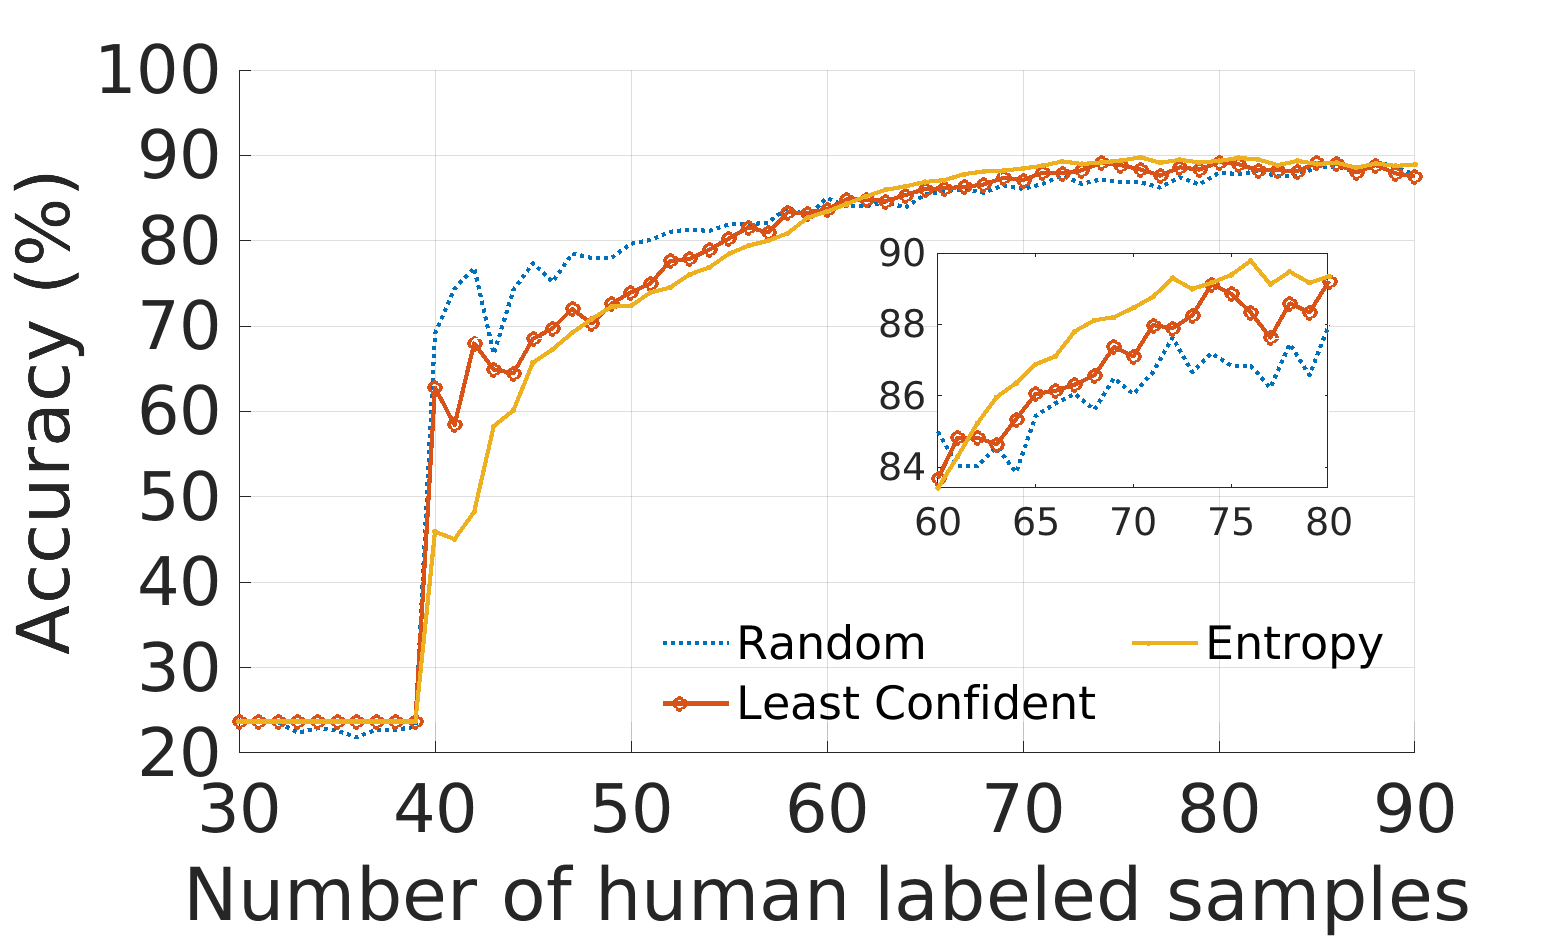
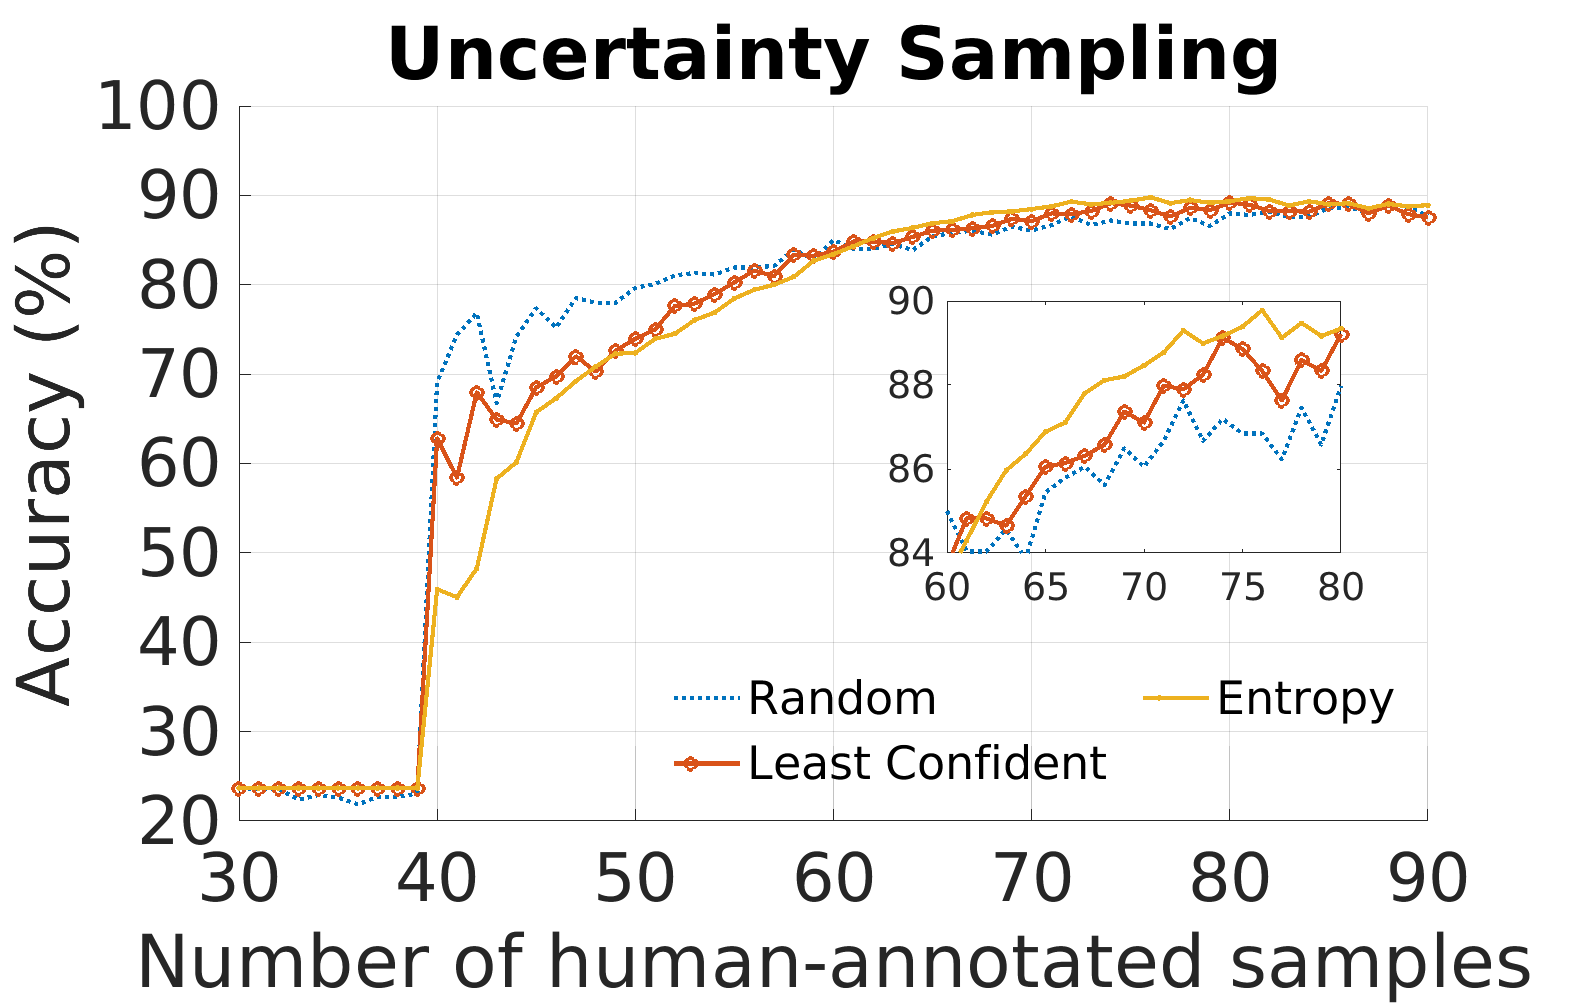
Active Learning Done

diff --git a/Python/self_train.py b/Python/self_train.py
@@ -1,0 +1,189 @@
+import numpy as np
+import pandas as pd
+from sklearn import preprocessing
+from sklearn.model_selection import KFold
+from sklearn.metrics import confusion_matrix
+import optuna
+from numpy import savetxt
+import pickle
+import os
+
+import argparse
+from argparse import RawTextHelpFormatter
+
+import lightgbm as lgb
+
+from copy import deepcopy
+
+from MyObjective import MyObjective
+from Query_Strategy import query_index
+
+
+# ------ Configurations ------
+
+# self_train
+
+
+# take in as arguments
+# query_strategy = "random"
+
+# do not change
+# n_sample_arr = list(range(3, 91))
+
+# number of runs for each reduced number of samples
+n_run = 10
+
+# optuna number of trails
+# n_trial = 5
+
+# data directory
+dire = "../data/PAW FTIR data/"
+
+# number of folds for cross-validation. !Do not change
+n_fold = 5
+
+# do not change
+start_n_sample = 10
+end_n_sample = 90
+
+path_to_param = "Hyper_Parameter/params.pkl"
+
+# --- End of Configurations ---
+
+# np.random.seed(123)
+optuna.logging.set_verbosity(optuna.logging.FATAL)
+
+help_message = "Self Training. " \
+    "Supported Methods:\n" \
+    "Self Training: [random|confident|entropy]"
+parser = argparse.ArgumentParser(description="Active Learning Strategies", formatter_class=RawTextHelpFormatter)
+parser.add_argument("sampling_method", type=str, help=help_message)
+args = parser.parse_args()
+
+query_strategy = args.sampling_method
+
+
+print("query_strategy={}\nn_run={}".format(query_strategy, n_run))
+
+filesnames = os.listdir(dire)
+filesnames.sort(key=lambda x: int(x.split('-')[0]))
+
+# Below is to read all files from the directory into Pandas DataFrame
+df = pd.DataFrame()
+for i_file in range(len(filesnames)):
+    with open(os.path.join(dire, filesnames[i_file])) as f:
+        for i_row, row in enumerate(f):
+            if i_row < 4:
+                continue
+            else:
+                row = row.replace('\t', ' ')
+                row = row.replace('\n', ' ')
+                temp = row.split()
+                col_name = float(temp[0])
+                col_value = float(temp[1])
+                df.loc[i_file, col_name] = col_value
+        df.loc[i_file, 'group'] = filesnames[i_file][0:3]
+# print(df.shape)
+
+# "group" column refers to Y, like naocl concentration; originally it is 0ppm; I convert it to numeric number 0
+df["group"] = df["group"].apply(lambda x: x.split('-')[0])
+df["group"] = df["group"].astype("int64")  # change to number data type
+# print(df.head())
+
+train_set = df.drop(["group"], axis=1)
+target = df["group"]
+
+stand = preprocessing.StandardScaler()
+data = stand.fit_transform(train_set)
+
+le = preprocessing.LabelEncoder()
+target_cf = le.fit_transform(target)
+
+num_class = len(set(target_cf))
+
+# Load Hyper-parameters
+with open(path_to_param, "rb") as f:
+    hyper_params = pickle.load(f)
+
+
+def run_cv(train_set, target):
+
+    folds = KFold(n_splits=n_fold, shuffle=True)
+    preds = np.zeros([end_n_sample, len(train_set), num_class])
+    pred_accuracy = np.zeros(end_n_sample)
+
+    for fold_, (train_idx, val_idx) in enumerate(folds.split(train_set.values, target)):
+
+        unqueried_index_set = set(train_idx)
+        queried_index_set = set()
+
+        # randomly select instances for initialization
+        for _ in range(start_n_sample):
+            sample_index = np.random.choice(tuple(unqueried_index_set))
+            unqueried_index_set.remove(sample_index)
+            queried_index_set.add(sample_index)
+
+        while len(queried_index_set) < end_n_sample:
+
+            print("\t #fold: {}/{}, #sample: {}/{}".format(fold_+1, n_fold, len(queried_index_set), end_n_sample))
+
+            sample_index = np.random.choice(tuple(unqueried_index_set))
+            unqueried_index_set.remove(sample_index)
+            queried_index_set.add(sample_index)
+
+            # incrementally select data instances
+            queried_index_set_copy = deepcopy(queried_index_set)
+            unqueried_index_set_copy = deepcopy(unqueried_index_set)
+            target_copy = deepcopy(target)
+
+            while len(unqueried_index_set_copy) > 0 and len(queried_index_set_copy) <= end_n_sample:
+
+                train_data = lgb.Dataset(train_set.iloc[list(queried_index_set_copy)], label=target_copy[list(queried_index_set_copy)])
+                valid_data = lgb.Dataset(train_set.iloc[val_idx], label=target_copy[val_idx])
+
+                model = lgb.train(hyper_params[len(queried_index_set_copy)], train_data, valid_sets=[valid_data], verbose_eval=False)
+
+                sample_index = query_index(model=model, train_set=train_set,
+                                           queried_index_set=queried_index_set_copy,
+                                           unqueried_index_set=unqueried_index_set_copy,
+                                           query_strategy="selfTrain"+query_strategy, target=target_copy,
+                                           val_idx=val_idx, hyper_params=hyper_params)
+
+                target_copy[sample_index] = np.argmax(np.squeeze(model.predict(train_set.iloc[sample_index])))
+                unqueried_index_set_copy.remove(sample_index)
+                queried_index_set_copy.add(sample_index)
+
+            # model evaluation
+            train_data = lgb.Dataset(train_set.iloc[list(queried_index_set_copy)],
+                                     label=target_copy[list(queried_index_set_copy)])
+            valid_data = lgb.Dataset(train_set.iloc[val_idx], label=target_copy[val_idx])
+
+            model = lgb.train(hyper_params[end_n_sample], train_data, valid_sets=[valid_data], verbose_eval=False)
+
+            preds[len(queried_index_set) - 1, val_idx, :] = model.predict(train_set.iloc[val_idx])
+
+    for i_pred in range(len(preds)):
+        if i_pred < start_n_sample:
+            continue
+        pred_label = np.argmax(preds[i_pred], axis=1)
+        accuracy = np.sum(pred_label == target) / len(target)
+        pred_accuracy[i_pred] = accuracy
+
+    return pred_accuracy
+
+
+result_pred = np.zeros([n_run, end_n_sample])
+for i_run in range(n_run):
+    print("------ Round: {}/{} -------------------------------".format(i_run+1, n_run))
+    result_pred[i_run] = run_cv(train_set, target_cf)
+
+print(result_pred)
+
+# do not want dot in filenames
+query_strategy = query_strategy.replace('.', '')
+print("Saving result to ./Result/selfTrain_{}.csv".format(query_strategy))
+savetxt("./Result/selfTrain_{}.csv".format(query_strategy), result_pred, delimiter=',')
+
+
+
+

diff --git a/Matlab/minimize_expected_error.m b/Matlab/minimize_expected_error.m
@@ -2,18 +2,14 @@
 
 clear, clc
 
-line_spec = {':', 'o-', '.-', '-.', '^-', 'x:', 's-.', 'd-', '^:', 'v-.'};
+line_spec = {':', 'o-', '.-', '-.', '^-'};
 
 % al = Active Learning
 
 al_strategies = struct( ...
     'random', 'Random', ...
-    'minimize_expected_error', 'Minimize Error', ...
-    'density_leastConfident_cosine_2', 'Least Confident, Cosine, \beta:2', ...
-    'density_leastConfident_euclidean_1', 'Least Confident, Euclidean, \beta:1', ...
-    'density_leastConfident_euclidean_2', 'Least Confident, Euclidean, \beta:2');
-
-
+    'minimize_leastConfident', 'Minimize Expected Prediction Error', ...
+    'minimize_entropy', 'Minimize Expected Log-loss Error');
 data_file_prefix = '../Python/Result/';
 data_file_suffix = '.csv';
 
@@ -21,33 +17,55 @@ data_file_suffix = '.csv';
 fields = fieldnames(al_strategies);
 
 my_legend = {};
+all_data = [];
 
-figure(1), clf, hold on
-set(gcf, 'position', [500, 500, 1000, 700])
+
 for k = 1:numel(fields)
     
     filename = fullfile(data_file_prefix, strcat(fields{k}, data_file_suffix));
     data = readmatrix(filename);
-    
-    
-    data = mean(data, 1);
-    
-    my_legend = [my_legend, al_strategies.(fields{k})];
-    
 
-    plot([11:90], data(11:end)*100, line_spec{k}, 'linewidth', 3)
-   
+    mean_data = mean(data);
     
+    all_data = [all_data; mean_data];
+    my_legend = [my_legend, al_strategies.(fields{k})];
+     
 end
 
-legend(my_legend, 'location', 'southeast', 'fontsize', 22, 'location', 'southeast')
+figure(1), clf, hold on
+set(gcf, 'position', [500, 500, 1000, 650])
+
+x = 11:90;
+
+for i_row = 1:size(all_data, 1)
+    data = all_data(i_row, 11:end);
+    plot(x, data *100, line_spec{i_row}, 'linewidth', 2)
+end
+
+h_legend = columnlegend(1, my_legend, 'location', 'northwest', 'fontsize', 22);
+h_legend.Position = [0.32, 0.18, 0.6, 0.2];
+
 set(gca, 'fontsize', 32, 'ygrid', 'on', 'xgrid', 'on')
 xlim([30, 90])
 ylim([20, 100])
-xlabel('Number of labeled samples')
+xlabel('Number of human-annotated samples')
 ylabel('Accuracy (%)')
-xticks(0:10:90)
-yticks(0:10:100)
-% yticks(20:10:100)
+xticks(10:10:90)
+yticks(20:10:100)
+title('Minimize Expected Error')
+
+axes('Position', [0.6, 0.45, 0.25, 0.25])
+box on, hold on
+
+for i_row = 1:size(all_data, 1)
+    data = all_data(i_row, 11:end);
+    indexOfInterest = (x >= 60) & (x <= 80);
+    plot(x(indexOfInterest), 100 * data(indexOfInterest), line_spec{i_row}, 'linewidth', 2)
+end
+set(gca, 'fontsize', 18)
+xticks([60:5:80])
+ylim([84, 90])
+yticks([84:2:90])
+
 hold off
-saveas(gcf, './Image/density.png')
+saveas(gcf, './Image/minimize_error.png')

diff --git a/Python/Query_Strategy.py b/Python/Query_Strategy.py
@@ -205,7 +205,29 @@ def query_index(model, train_set, queried_index_set, unqueried_index_set, query_
         sample_index = np.argmin(expected_error_arr)
         sample_index = unqueried_index_list[sample_index]
         return sample_index
+    elif query_strategy.lower().startswith("selftrain"):
+        sub_fields = query_strategy.lower().split("_")
+        base_query_method = sub_fields[1]
 
+        unqueried_index_list = list(unqueried_index_set)
+
+        prob = model.predict(train_set.iloc[unqueried_index_list])
+
+        if base_query_method == "random":
+            return np.random.choice(tuple(unqueried_index_set))
+        elif base_query_method == "confident":
+            utility = calculate_utility(prob, "confident")
+            sample_index_unordered = np.argmax(utility)
+            sample_index = unqueried_index_list[sample_index_unordered]
+            return sample_index
+        elif base_query_method == "entropy":
+            utility = calculate_utility(prob, "entropy")
+            sample_index_unordered = np.argmin(utility)
+            sample_index = unqueried_index_list[sample_index_unordered]
+            return sample_index
+        else:
+            print("Unknown base_query_method={}".format(base_query_method))
+            exit(-1)
     else:
         print("Error: unknown strategy", query_strategy)
         exit(-1)

diff --git a/Matlab/uncertainty.m b/Matlab/uncertainty.m
@@ -34,7 +34,7 @@ for k = 1:numel(fields)
 end
 
 figure(1), clf, hold on
-set(gcf, 'position', [500, 500, 1000, 600])
+set(gcf, 'position', [500, 500, 1000, 650])
 
 x = 11:90;
 
@@ -44,17 +44,18 @@ for i_row = 1:size(all_data, 1)
 end
 
 h_legend = columnlegend(2, my_legend, 'location', 'northwest', 'fontsize', 22);
-h_legend.Position = [0.42, 0.15, 0.6, 0.2];
+h_legend.Position = [0.42, 0.14, 0.6, 0.2];
 
 set(gca, 'fontsize', 32, 'ygrid', 'on', 'xgrid', 'on')
 xlim([30, 90])
 ylim([20, 100])
-xlabel('Number of human labeled samples')
+xlabel('Number of human-annotated samples')
 ylabel('Accuracy (%)')
 xticks(10:10:90)
 yticks(20:10:100)
+title('Uncertainty Sampling')
 
-axes('Position', [0.6, 0.48, 0.25, 0.25])
+axes('Position', [0.6, 0.45, 0.25, 0.25])
 box on, hold on
 
 for i_row = 1:size(all_data, 1)
@@ -64,7 +65,7 @@ for i_row = 1:size(all_data, 1)
 end
 set(gca, 'fontsize', 18)
 xticks([60:5:80])
-% ylim([80, 90])
+ylim([84, 90])
 yticks([84:2:90])
 
 hold off

diff --git a/Matlab/density.m b/Matlab/density.m
@@ -36,7 +36,7 @@ for k = 1:numel(fields)
 end
 
 figure(1), clf, hold on
-set(gcf, 'position', [500, 500, 1000, 600])
+set(gcf, 'position', [500, 500, 1000, 650])
 
 x = 11:90;
 
@@ -51,12 +51,13 @@ h_legend.Position = [0.3, 0.09, 0.72, 0.3];
 set(gca, 'fontsize', 32, 'ygrid', 'on', 'xgrid', 'on')
 xlim([30, 90])
 ylim([20, 100])
-xlabel('Number of human labeled samples')
+xlabel('Number of human-annotated samples')
 ylabel('Accuracy (%)')
 xticks(10:10:90)
 yticks(20:10:100)
+title('Information-density')
 
-axes('Position', [0.6, 0.48, 0.25, 0.25])
+axes('Position', [0.6, 0.45, 0.25, 0.25])
 box on, hold on
 
 for i_row = 1:size(all_data, 1)
@@ -66,7 +67,7 @@ for i_row = 1:size(all_data, 1)
 end
 set(gca, 'fontsize', 18)
 xticks([60:5:80])
-% ylim([80, 90])
+ylim([84, 90])
 yticks([84:2:90])
 
 hold off
